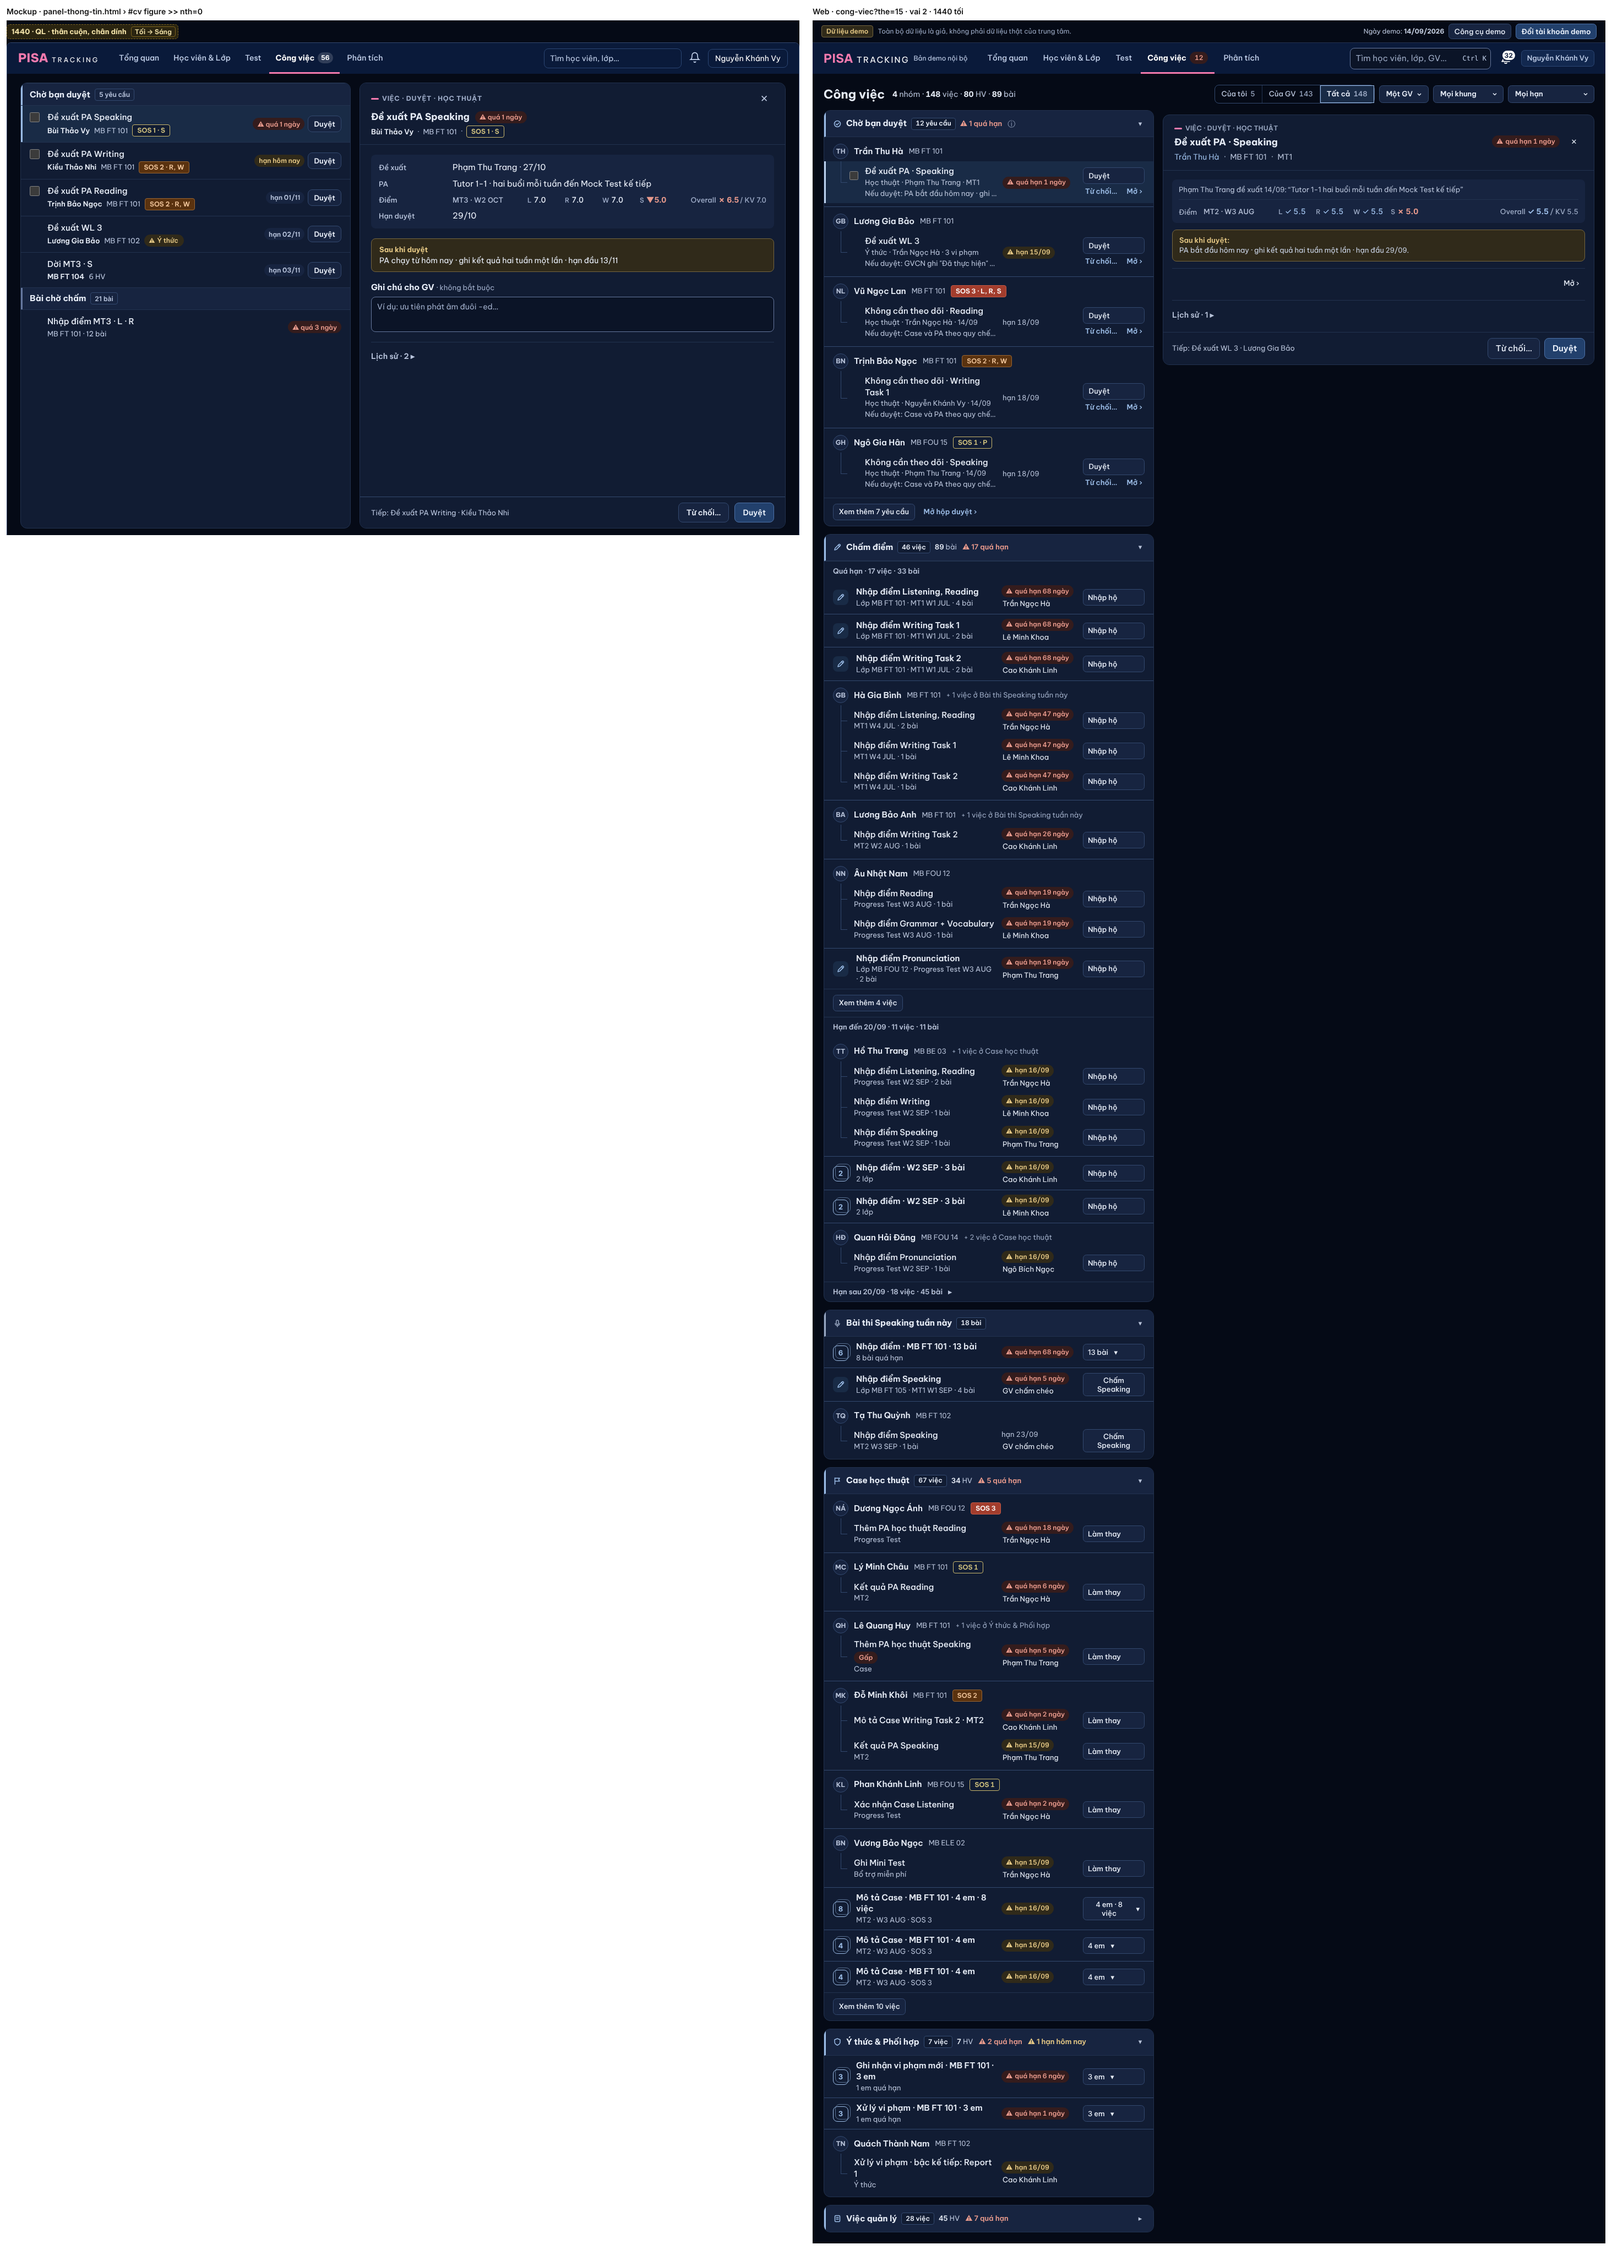
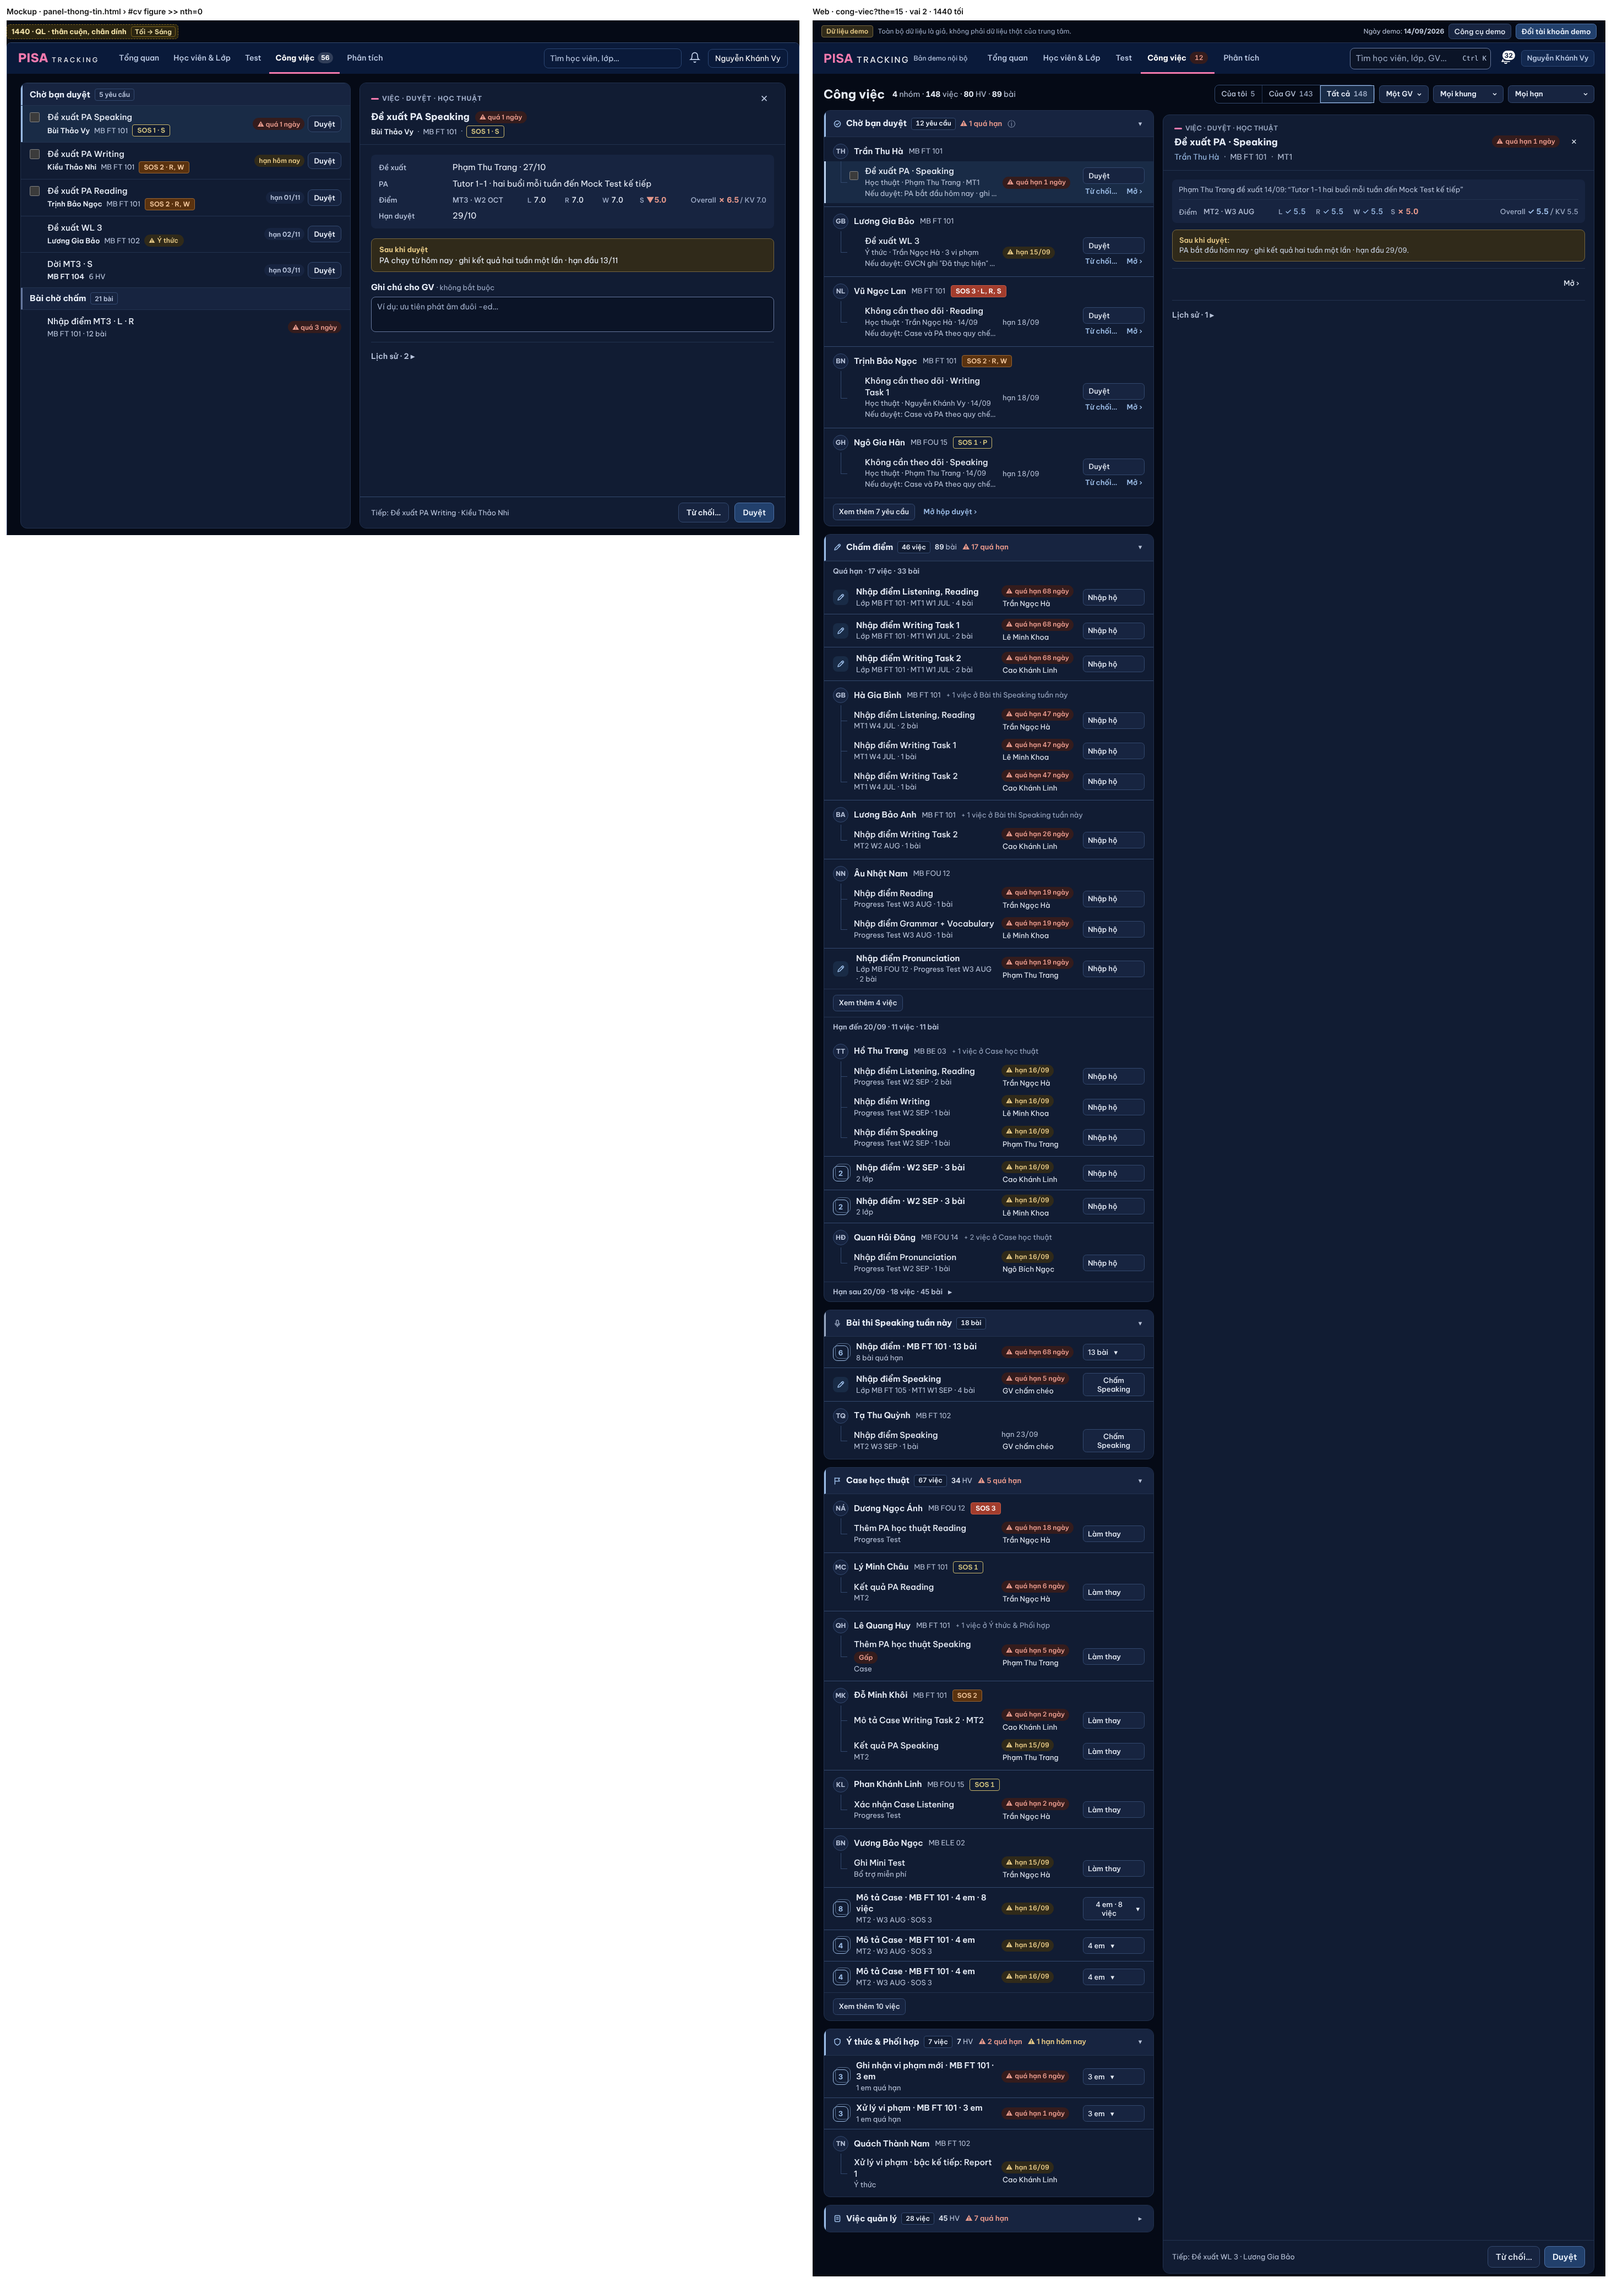
DUYET-QL (rà #754): panel duyệt cao hết khung nhìn, chân ở đáy; đóng ô trả focus về nút còn trên trang; chụp lại ảnh, chấm KHỚP theo dòng
Claude-Session: https://claude.ai/code/session_01QgWEDAUyxc9wM3zmkhpt2f

diff --git a/web/src/ui/KhungPanel.tsx b/web/src/ui/KhungPanel.tsx
@@ -162,7 +162,7 @@ export const HienLaiPanel = createContext<(() => void) | null>(null);
  * `DongCanSua`) — chỉ truyền `conThieu` SAU khi bấm Lưu; lý do từng ô nằm dưới ô (`Truong loi`). CHỈ thân cuộn, trang sau khoá cuộn. Mở việc khác thì THAY nội dung, không
  * chồng panel (`khoPanelChung`). Không chữ dev; chữ mẫu bắt đầu "Ví dụ:".
  */
-export function KhungPanel({ tieuDe, hocVien, lop, rong: rongRieng, tabs, ngCanh, quayLai, chan, daSua: daSuaRieng, longTrong, z = 'z-50', dau, loai, onDong, children }: {
+export function KhungPanel({ tieuDe, hocVien, lop, rong: rongRieng, tabs, ngCanh, quayLai, chan, daSua: daSuaRieng, longTrong, z = 'z-50', dau, loai, dayCot, onDong, children }: {
   tieuDe: string; hocVien?: string | null; lop?: string | null;
   /** NEN-PANEL (07 mục 3, `v5-nen.css .panel-loai`): dòng loại trên tiêu đề, vạch hồng — "VIỆC · …" / "BÁO CÁO · CHỈ ĐỌC". M6 6b-1: khung KHÔNG
    *  đoán theo `dau` — panel việc khai qua `dauViec` (`dau.loai`) hoặc prop này; `null` = không vẽ. */
@@ -198,6 +198,8 @@ export function KhungPanel({ tieuDe, hocVien, lop, rong: rongRieng, tabs, ngCanh
   };
   /** 6c (lỗi 5): như `chan.daSua` cho panel KHÔNG có chân (form + nút lưu nằm trong thân). */
   daSua?: boolean;
+  /** DUYET-QL (mockup v8 / v10 #cv): panel tại chỗ ≥ 1024 cao hết khung nhìn của cột — thân cuộn, chân ở ĐÁY (không bám ngay dưới nội dung ngắn). */
+  dayCot?: boolean;
   onDong: () => void; children: ReactNode;
 }) {
   const id = useId();
@@ -373,7 +375,7 @@ export function KhungPanel({ tieuDe, hocVien, lop, rong: rongRieng, tabs, ngCanh
     return (
       /* 375 toàn màn (08 NEN-PANEL, `.dt-toan`): `-mx-4` bù đệm `p-4` của <main> — thẻ tràn sát hai mép, không bo góc. */
       <section ref={khung} tabIndex={-1} aria-label={tieuDe} onKeyDown={(e) => { if (e.key === 'Escape' && !e.defaultPrevented && khung.current?.contains(e.target as Node) && !khung.current.querySelector('[aria-modal="true"]')) dong(); }}
-        className={trongCot ? 'flex min-w-0 flex-col -outline-offset-2' : `card flex flex-col -outline-offset-2 max-sm:-mx-4 max-sm:rounded-none max-sm:border-x-0 lg:max-h-[calc(100dvh-8rem)] ${chan ? 'max-sm:overflow-visible sm:overflow-hidden' : 'overflow-hidden'}`}>
+        className={trongCot ? 'flex min-w-0 flex-col -outline-offset-2' : `card flex flex-col -outline-offset-2 max-sm:-mx-4 max-sm:rounded-none max-sm:border-x-0 ${dayCot ? 'lg:h-[calc(100dvh-11rem)]' : 'lg:max-h-[calc(100dvh-8rem)]'} ${chan ? 'max-sm:overflow-visible sm:overflow-hidden' : 'overflow-hidden'}`}>
         <KhungTrongCot.Provider value={false}><KhungTaiCho.Provider value={false}>{voi(than)}</KhungTaiCho.Provider></KhungTrongCot.Provider>
       </section>
     );

diff --git a/web/src/modules/duyet/TheYeuCau.tsx b/web/src/modules/duyet/TheYeuCau.tsx
@@ -113,7 +113,8 @@ export function TheYeuCau({ yc, onXong, gon, laNguoiXin, chon, nhanManh, onThemP
     void gui(`/yeu-cau/${yc.id}/rut`, {}, t('Đã rút — Quản lý không còn thấy yêu cầu này'));
   };
   /* Đóng ô: nút gốc vẫn trong DOM (chỉ mờ khi ô mở) — đợi React bỏ `disabled` rồi mới trả focus. */
-  const dongO = () => { setO(null); setLoiMay(null); setTimeout(() => nutMo.current?.focus(), 0); };
+  /* DUYET-QL: nút mở ô có thể đã rời trang (chân dính đổi nút) — trả focus về nút còn trên trang. */
+  const dongO = () => { setO(null); setLoiMay(null); setTimeout(() => (nutMo.current?.isConnected ? nutMo.current : chanEl?.querySelector('button'))?.focus(), 0); };
 
   const gui = async (duongDan: string, than: Record<string, unknown>, xongChu: string, put = false) => {
     if (busy) return;

diff --git a/server/src/tests/prDuyetQl.tests.ts b/server/src/tests/prDuyetQl.tests.ts
@@ -56,4 +56,10 @@ export async function runPrDuyetQlTests(t: YThucTestKit) {
     const f = than(doc('server/src/duyet/yeuCau.ts'), 'export function lichSuYeuCau');
     assert(f.includes('nhanHanhDongNhatKy(r.action)') && !/\[r\.action, r\.entity_label\]/.test(f), 'lichSuYeuCau còn trả mã thô');
   });
+
+  check('D2 (rà #754) · 1440 panel duyệt cao hết cột, chân ở đáy; đóng ô trả focus về nút còn trên trang', () => {
+    const kp = doc('web/src/ui/KhungPanel.tsx');
+    assert(/dayCot \? 'lg:h-\[calc\(100dvh-[0-9.]+rem\)\]'/.test(kp) && /<KhungPanel dayCot /.test(than(hop, 'function PanelDuyet')), 'panel duyệt chưa cao hết cột');
+    assert(/nutMo\.current\?\.isConnected \? nutMo\.current : chanEl\?\.querySelector\('button'\)/.test(the), 'dongO chưa trả focus về nút còn trên trang');
+  });
 }

diff --git a/web/src/modules/duyet/HopChoDuyet.tsx b/web/src/modules/duyet/HopChoDuyet.tsx
@@ -416,7 +416,7 @@ function PanelDuyet({ yc, moSan, tiep, xong, onDong, onXong, onThemPa }: {
   const chuTiep = tiep ? t('Tiếp: {tieuDe}', { tieuDe: [dich(tiep.tieuDe), tiep.hocVien].filter(Boolean).join(' · ') }) : null;
   return (
     <KhungTaiCho.Provider value>
-      <KhungPanel tieuDe={dich(yc.tieuDe)} loai={`${t('VIỆC · DUYỆT')} · ${dich(yc.nhanPhanLoai).toLocaleUpperCase('vi')}`}
+      <KhungPanel dayCot tieuDe={dich(yc.tieuDe)} loai={`${t('VIỆC · DUYỆT')} · ${dich(yc.nhanPhanLoai).toLocaleUpperCase('vi')}`}
         dau={{ han: !xong && yc.trangThai === 'cho' && yc.hanDuyet ? <ChipHan loai="duyet" han={yc.hanDuyet} /> : undefined,
           dong2: [
             yc.hocVien && (yc.hocVienId != null ? <Link to={`/hoc-vien/${yc.hocVienId}`} className="link">{yc.hocVien}</Link> : yc.hocVien),
